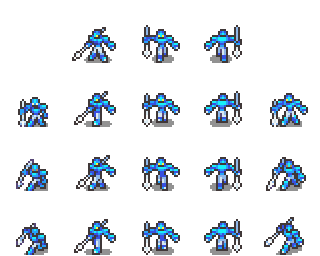
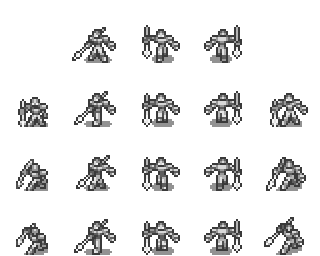
Apply army color to unit

diff --git a/src/Level/Object/Unit.cs b/src/Level/Object/Unit.cs
@@ -18,7 +18,9 @@ public partial class Unit : GridNode
 
     private Path2D _path = null;
     private PathFollow2D _follow = null;
+    private Sprite2D _sprite = null;
     private AnimationPlayer _animation = null;
+    private Army _affiliation = null;
     private bool _selected = false;
     private bool _moving = false;
 
@@ -36,7 +38,16 @@ public partial class Unit : GridNode
     [Export] public int[] SupportRange = new[] { 1, 2, 3 };
 
     /// <summary>Army to which this unit belongs, to determine its allies and enemies.</summary>
-    [Export] public Army Affiliation = null;
+    [Export] public Army Affiliation
+    {
+        get => _affiliation;
+        set
+        {
+            _affiliation = value;
+            if (_sprite is not null && _affiliation is not null)
+                _sprite.Modulate = _affiliation.Color;
+        }
+    }
 
     /// <summary>Speed, in world pixels/second, to move along the path while moving.</summary>
     [Export] public double MoveSpeed = 320;
@@ -93,6 +104,10 @@ public partial class Unit : GridNode
     {
         base._Ready();
 
+        _sprite = GetNode<Sprite2D>("Path/PathFollow/Sprite");
+        if (_affiliation is not null)
+            _sprite.Modulate = _affiliation.Color;
+
         if (!Engine.IsEditorHint())
         {
             Path.Curve = new();
@@ -130,6 +145,11 @@ public partial class Unit : GridNode
                 IsSelected = _selected; // Go back to standing animation (idle/selected)
                 EmitSignal(SignalName.DoneMoving);
             }
+        }
+        else
+        {
+            if (_affiliation is not null)
+                _sprite.Modulate = _affiliation.Color;
         }
     }
 }
